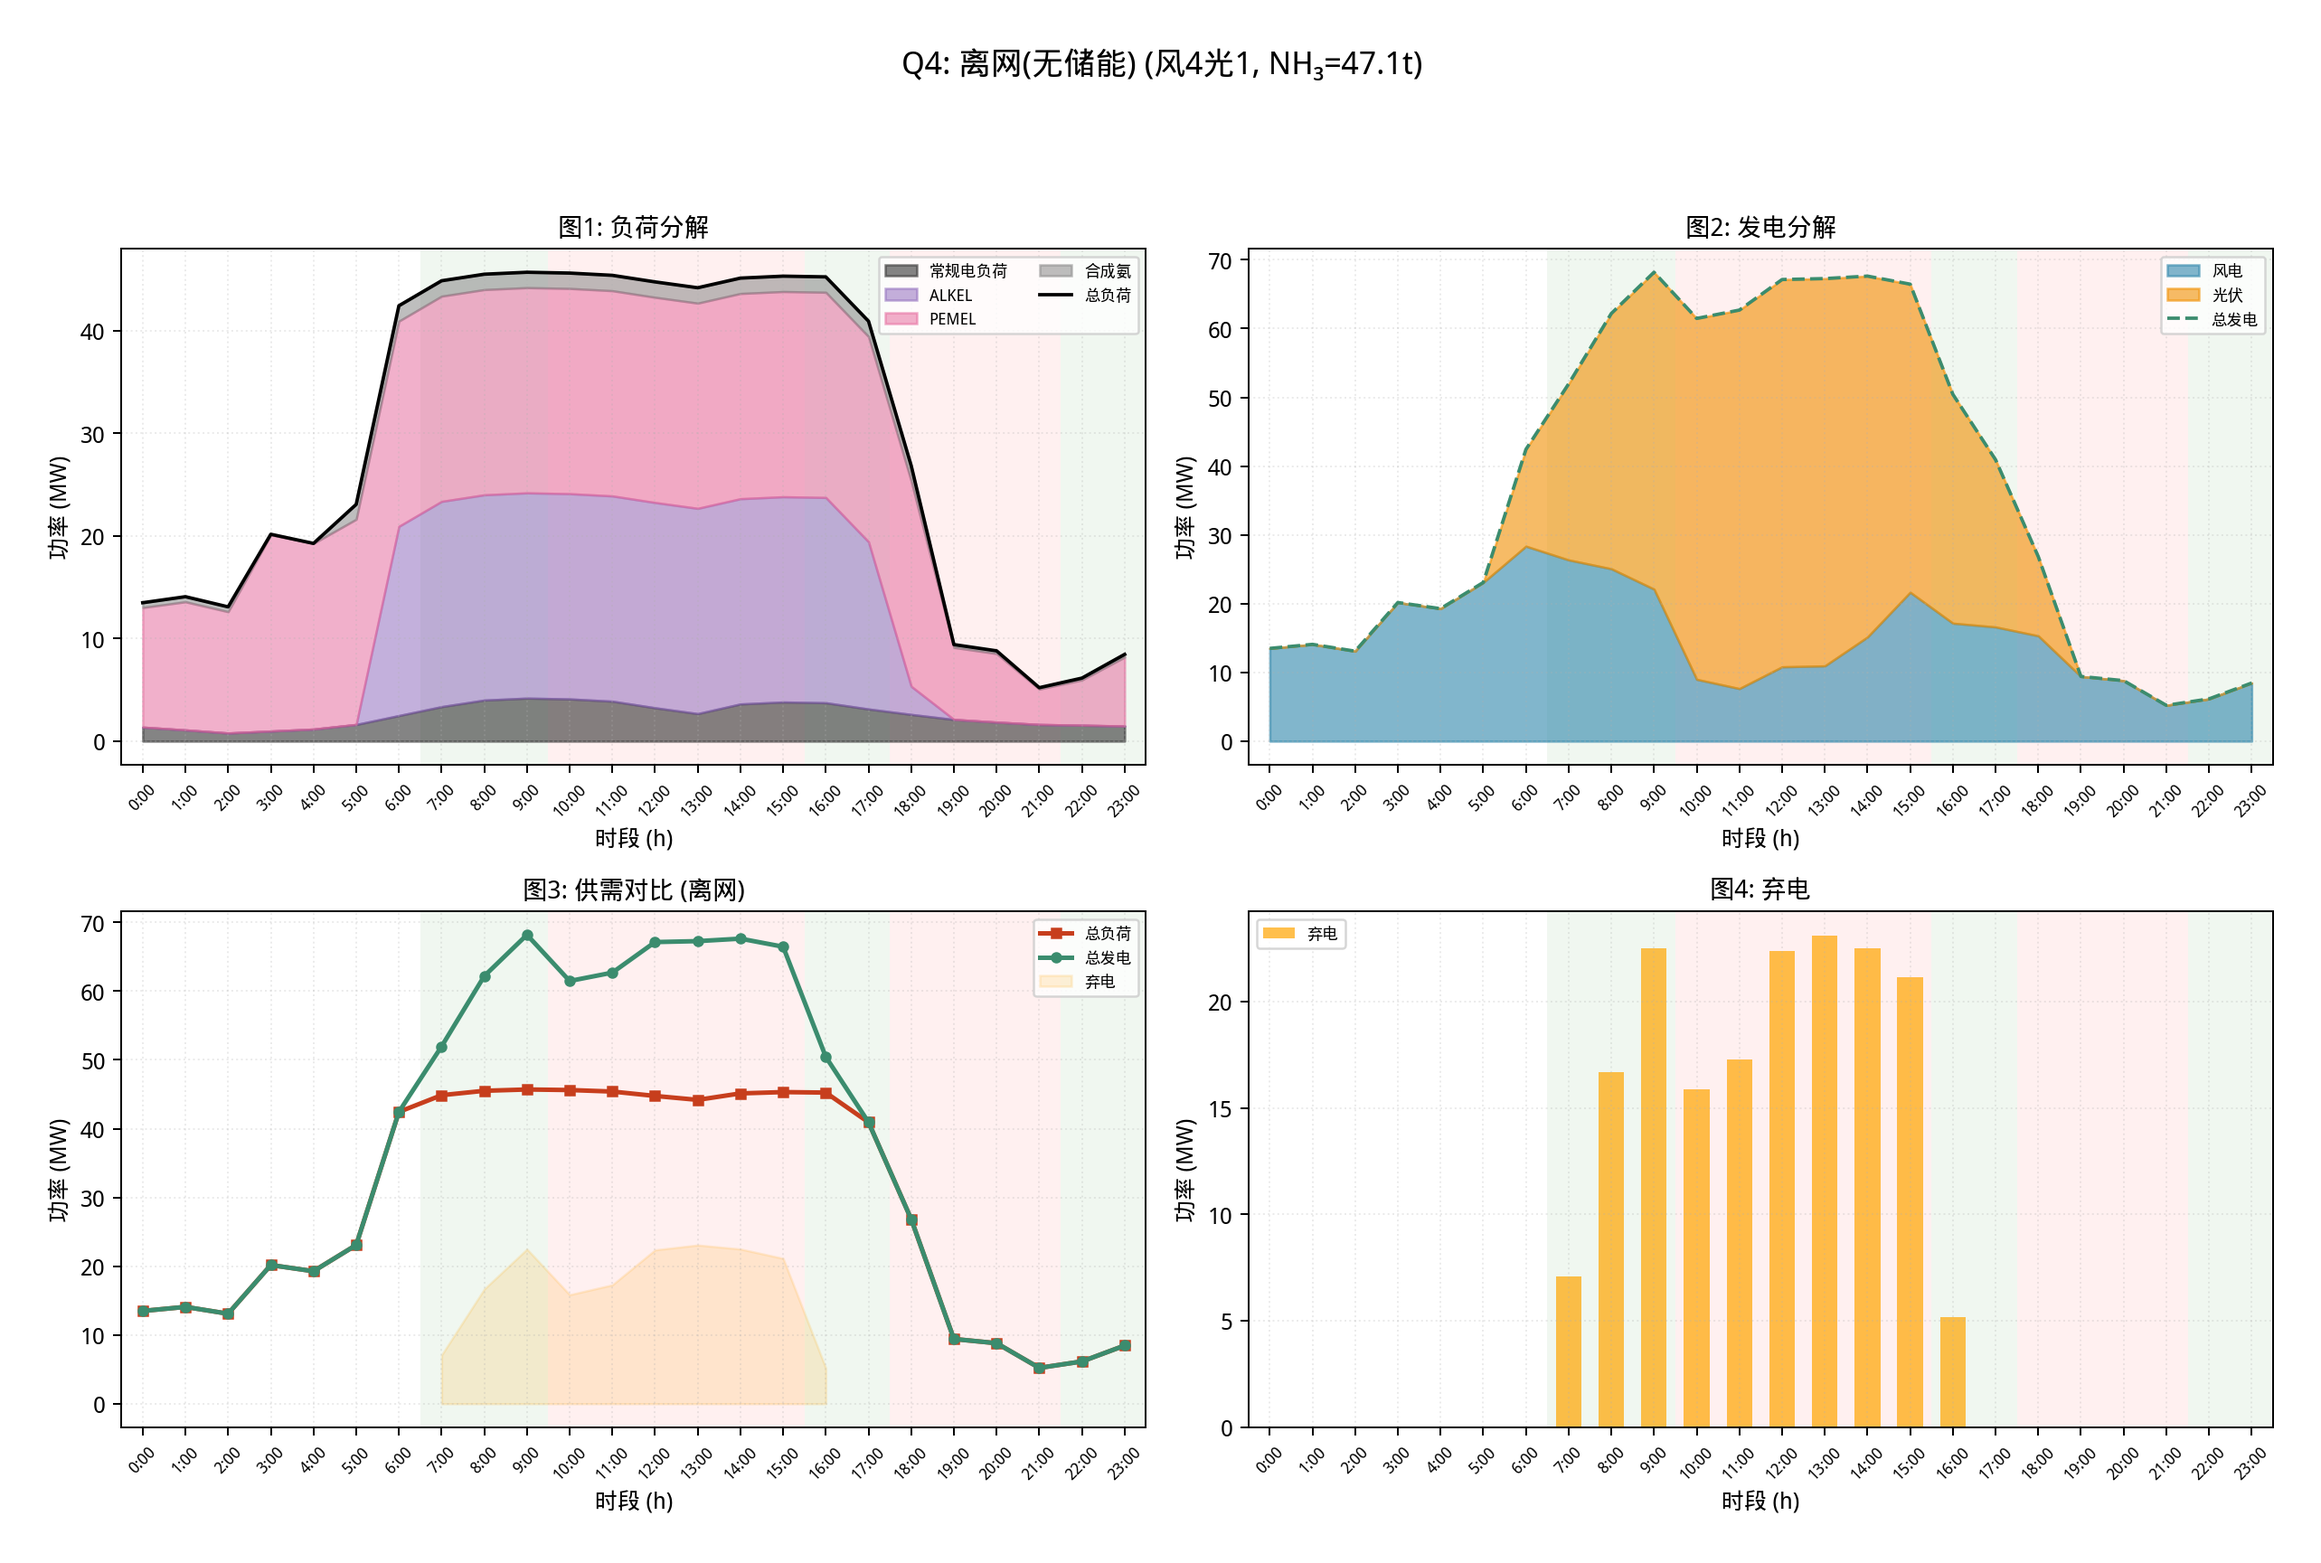
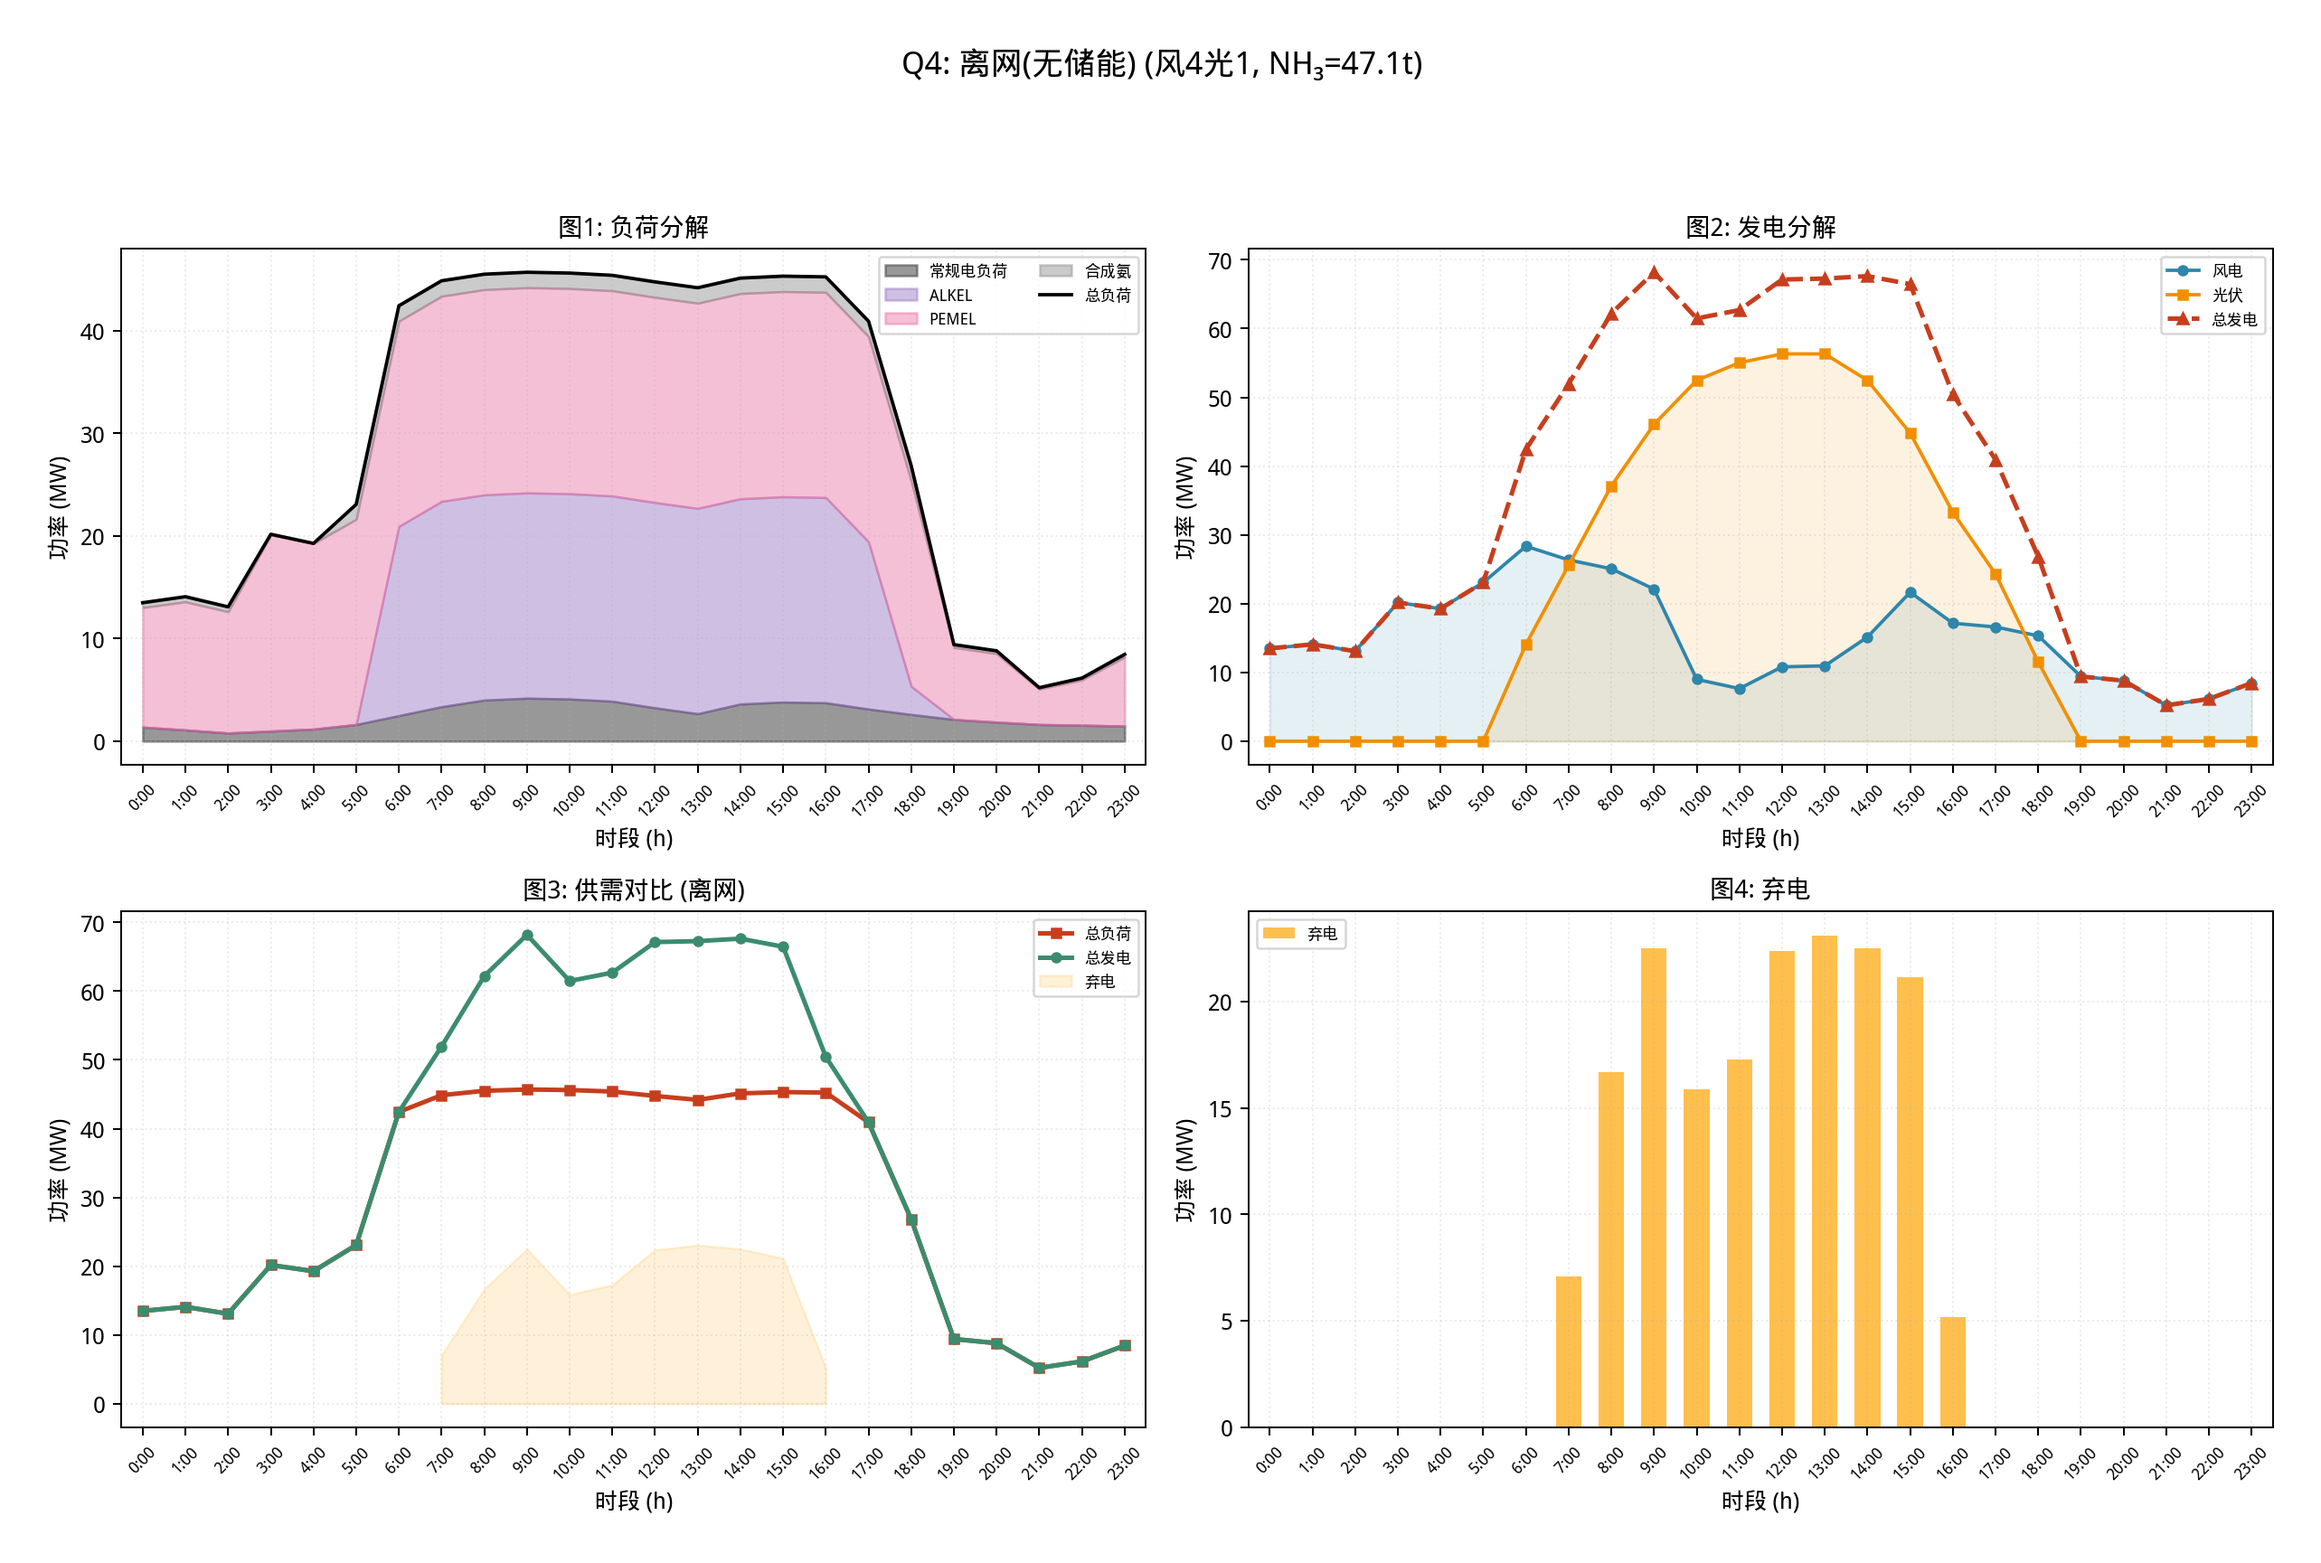
修改q2,3,4图片

Changed region(s): [[0.5298, 0.1562, 0.9973, 0.4997], [0.187, 0.4372, 0.4675, 0.4997], [0.9349, 0.1562, 0.9661, 0.2186]]

diff --git a/src/q4_lp.py b/src/q4_lp.py
@@ -8,7 +8,6 @@ from pulp import LpProblem, LpMaximize, LpVariable, lpSum, PULP_CBC_CMD, value
 from utils import (
     load_typical_load, load_wind_scenarios, load_solar_scenarios,
     compute_indicators, RESULTS_DIR, save_text_output, TeeStream,
-    get_price, FEED_IN_PRICE, TOU_SCHEDULE,
 )
 
 T = 24
@@ -508,17 +507,13 @@ def plot_q4_figures(P_w, P_s, P_load, sol, res, storage_capacity, wi, si):
 
     # ── 图1: 负荷分解 ──
     ax1 = axes[0, 0]
-    for tt in range(24):
-        p = TOU_SCHEDULE[tt]
-        c = 'red' if p == 'peak' else ('green' if p == 'flat' else 'none')
-        ax1.axvspan(tt - 0.5, tt + 0.5, color=c, alpha=0.06, lw=0)
-    ax1.fill_between(t, 0, P_load, label='常规电负荷', color='#333333', alpha=0.6)
+    ax1.fill_between(t, 0, P_load, label='常规电负荷', color='#333333', alpha=0.5)
     bottom = P_load.copy()
-    ax1.fill_between(t, bottom, bottom + sol['P_alkel'], label='ALKEL', color='#8963BA', alpha=0.5)
+    ax1.fill_between(t, bottom, bottom + sol['P_alkel'], label='ALKEL', color='#8963BA', alpha=0.4)
     bottom += sol['P_alkel']
-    ax1.fill_between(t, bottom, bottom + sol['P_pemel'], label='PEMEL', color='#E56399', alpha=0.5)
+    ax1.fill_between(t, bottom, bottom + sol['P_pemel'], label='PEMEL', color='#E56399', alpha=0.4)
     bottom += sol['P_pemel']
-    ax1.fill_between(t, bottom, bottom + sol['P_ammonia'], label='合成氨', color='#7F7F7F', alpha=0.5)
+    ax1.fill_between(t, bottom, bottom + sol['P_ammonia'], label='合成氨', color='#7F7F7F', alpha=0.4)
     ax1.plot(t, P_total_load, 'k-', linewidth=1.5, label='总负荷')
     ax1.set_xlabel('时段 (h)')
     ax1.set_ylabel('功率 (MW)')
@@ -529,15 +524,13 @@ def plot_q4_figures(P_w, P_s, P_load, sol, res, storage_capacity, wi, si):
     ax1.set_xlim(-0.5, 23.5)
     ax1.legend(fontsize=7, ncol=2, loc='upper right')
 
-    # ── 图2: 发电分解 ──
+    # ── 图2: 发电分解 (独立曲线) ──
     ax2 = axes[0, 1]
-    for tt in range(24):
-        p = TOU_SCHEDULE[tt]
-        c = 'red' if p == 'peak' else ('green' if p == 'flat' else 'none')
-        ax2.axvspan(tt - 0.5, tt + 0.5, color=c, alpha=0.06, lw=0)
-    ax2.fill_between(t, 0, P_w, label='风电', color='#2E86AB', alpha=0.6)
-    ax2.fill_between(t, P_w, P_total_gen, label='光伏', color='#F18F01', alpha=0.6)
-    ax2.plot(t, P_total_gen, '--', color='#3B8C6E', linewidth=1.5, label='总发电')
+    ax2.fill_between(t, 0, P_w, color='#2E86AB', alpha=0.12)
+    ax2.fill_between(t, 0, P_s, color='#F18F01', alpha=0.12)
+    ax2.plot(t, P_w, 'o-', color='#2E86AB', linewidth=1.5, markersize=4, label='风电')
+    ax2.plot(t, P_s, 's-', color='#F18F01', linewidth=1.5, markersize=4, label='光伏')
+    ax2.plot(t, P_total_gen, '^--', color='#C73E1D', linewidth=2, markersize=5, label='总发电')
     ax2.set_xlabel('时段 (h)')
     ax2.set_ylabel('功率 (MW)')
     ax2.set_title('图2: 发电分解', fontsize=11, fontweight='bold')
@@ -549,11 +542,6 @@ def plot_q4_figures(P_w, P_s, P_load, sol, res, storage_capacity, wi, si):
 
     # ── 图3: 供需对比 + 弃电 ──
     ax3 = axes[1, 0]
-    for tt in range(24):
-        p = TOU_SCHEDULE[tt]
-        c = 'red' if p == 'peak' else ('green' if p == 'flat' else 'none')
-        ax3.axvspan(tt - 0.5, tt + 0.5, color=c, alpha=0.06, lw=0)
-    # With storage: net load = load + charge - discharge
     if has_storage:
         P_net_re = P_w + P_s + sol['P_discharge'] - sol['P_charge']
         net_label = '总发电+放电-充电'
@@ -562,7 +550,6 @@ def plot_q4_figures(P_w, P_s, P_load, sol, res, storage_capacity, wi, si):
         net_label = '总发电'
     ax3.plot(t, P_total_load, 's-', color='#C73E1D', linewidth=2, markersize=4, label='总负荷')
     ax3.plot(t, P_net_re, 'o-', color='#3B8C6E', linewidth=2, markersize=4, label=net_label)
-    # Curtailment area
     curtail = sol['curtail']
     ax3.fill_between(t, 0, curtail, where=(curtail > 0), color='orange', alpha=0.15, label='弃电')
     ax3.set_xlabel('时段 (h)')
@@ -576,10 +563,6 @@ def plot_q4_figures(P_w, P_s, P_load, sol, res, storage_capacity, wi, si):
 
     # ── 图4: 储能调度 (或弃电明细) ──
     ax4 = axes[1, 1]
-    for tt in range(24):
-        p = TOU_SCHEDULE[tt]
-        c = 'red' if p == 'peak' else ('green' if p == 'flat' else 'none')
-        ax4.axvspan(tt - 0.5, tt + 0.5, color=c, alpha=0.06, lw=0)
     if has_storage:
         ax4.bar(t - 0.2, sol['P_charge'], width=0.35, color='#2E86AB', alpha=0.7, label='充电')
         ax4.bar(t + 0.2, sol['P_discharge'], width=0.35, color='#C73E1D', alpha=0.7, label='放电')

diff --git a/src/q2_milp.py b/src/q2_milp.py
@@ -44,19 +44,13 @@ def _step_cost_and_bs(pw, ps, pl, xa, xp, xm, price):
     p_nh3 = xm * RATED_AMMONIA
     bal = pw + ps - pl - p_alkel - p_pemel - p_nh3
     om = p_alkel * 100 + p_pemel * 150 + p_nh3 * 2
-    P_sell_max = pw + ps
 
     if bal >= 0:
         P_buy = 0.0
         P_sell = bal
     else:
-        deficit = -bal
-        if price < FEED_IN_PRICE - 1e-8:
-            P_buy = deficit + P_sell_max
-            P_sell = P_sell_max
-        else:
-            P_buy = deficit
-            P_sell = 0.0
+        P_buy = -bal
+        P_sell = 0.0
     cost = P_buy * 1000 * price - P_sell * 1000 * FEED_IN_PRICE + om
     return cost, P_buy, P_sell
 
@@ -203,7 +197,6 @@ def plot_q2_figures(P_wind, P_solar, P_load, P_buy, P_sell,
     fig, axes = plt.subplots(2, 2, figsize=(14, 9))
 
     ax1 = axes[0, 0]
-    _shade_price(ax1)
     ax1.fill_between(t, 0, P_load, label='常规电负荷', color='#333333', alpha=0.6)
     bottom = P_load.copy()
     if P_alkel.sum() > 0:
@@ -223,7 +216,6 @@ def plot_q2_figures(P_wind, P_solar, P_load, P_buy, P_sell,
     ax1.legend(fontsize=7, ncol=2, loc='upper right')
 
     ax2 = axes[0, 1]
-    _shade_price(ax2)
     ax2.fill_between(t, 0, P_wind, label='风电', color='#2E86AB', alpha=0.6)
     ax2.fill_between(t, P_wind, P_total_gen, label='光伏', color='#F18F01', alpha=0.6)
     ax2.plot(t, P_total_gen, '--', color='#3B8C6E', linewidth=1.5, label='总发电')
@@ -242,7 +234,6 @@ def plot_q2_figures(P_wind, P_solar, P_load, P_buy, P_sell,
     ax3.legend(fontsize=7, loc='upper right')
 
     ax4 = axes[1, 1]
-    _shade_price(ax4)
     ax4.bar(t - 0.15, P_buy, width=0.3, color='#E56399', alpha=0.8, label='购电')
     ax4.bar(t + 0.15, P_sell, width=0.3, color='#88CC88', alpha=0.8, label='售电')
     _finish_ax(ax4, '功率 (MW)', '图4: 购电与售电功率')
